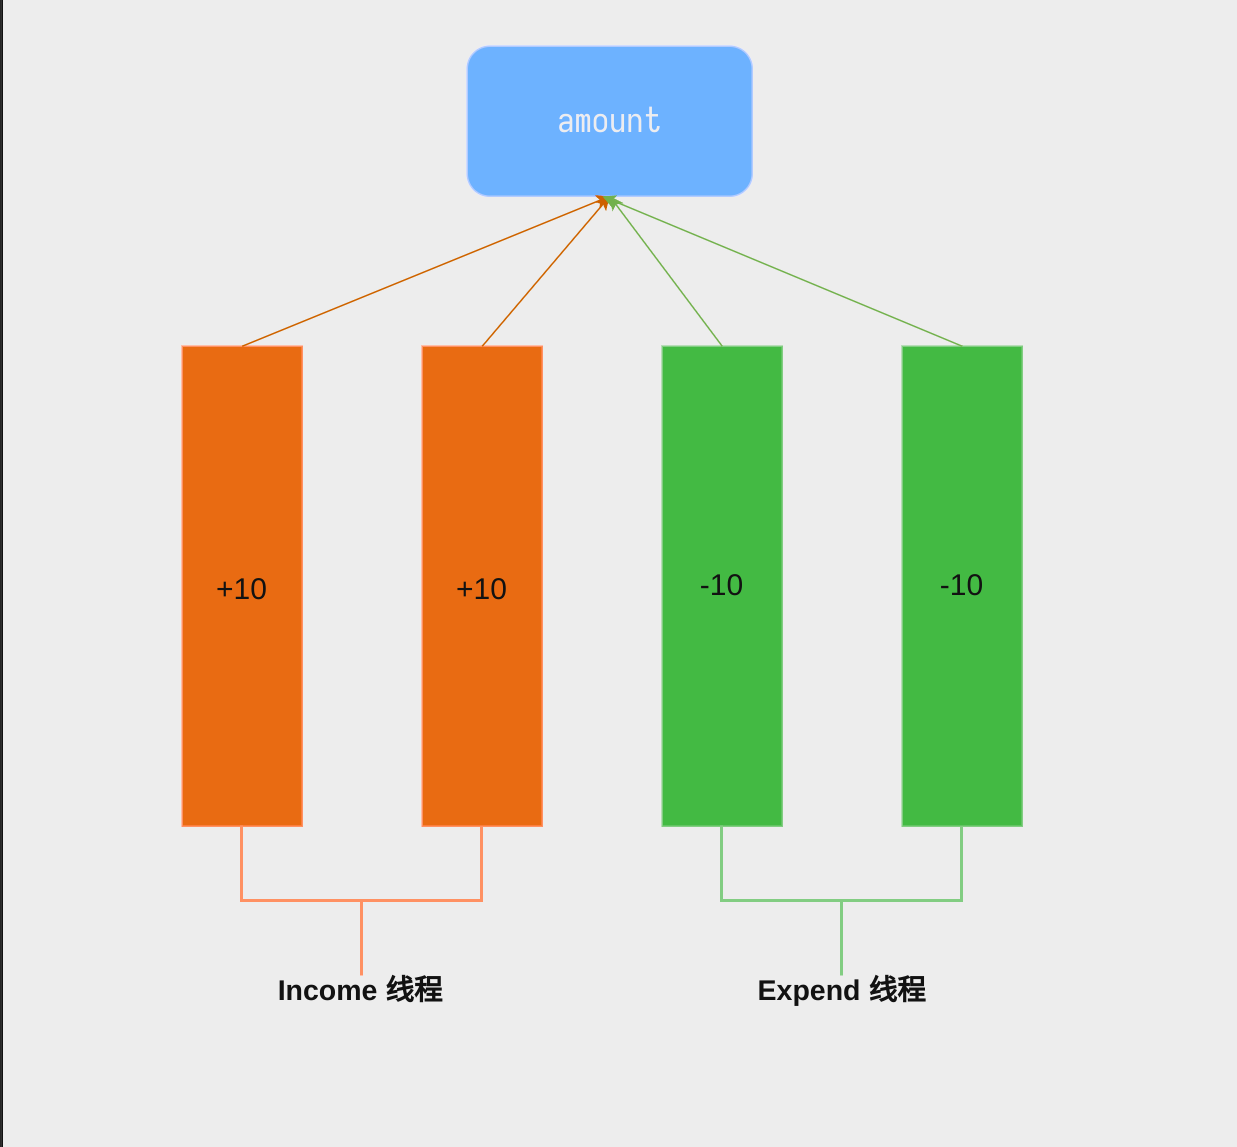
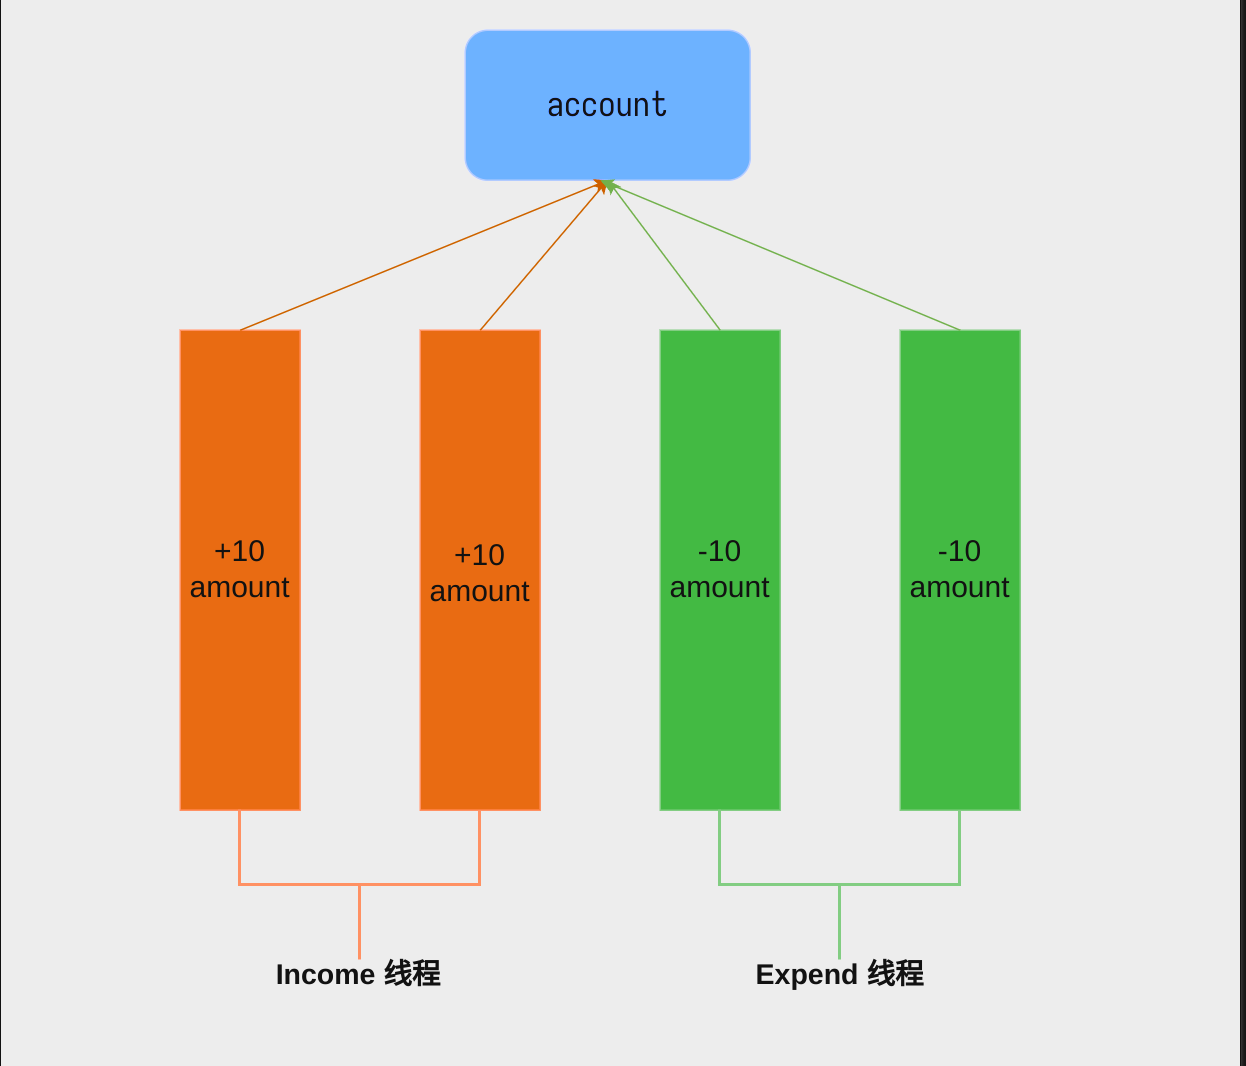
README

diff --git a/doc/lock_test/lock_test.md b/doc/lock_test/lock_test.md
@@ -1,0 +1,24 @@
+# lock_test
+
+在该任务中，你将处理一个简单的多线程并发同步任务
+
+## Background
+
+在银行账户的资金收入与支出过程中，经常会面临短时间内多笔资金的移动变化。在单线程情况下，面对大量的任务，性能往往无法满足需求。因此，引入多线程成为解决方案。然而，当计算机尚未完成一个请求处理时，又有另一个请求到来，如何保证数据的正确性就显得至关重要。
+
+![lock_test](./lock_test.png)
+
+## Description
+
+account 中的 `amount` 是你需要保证并发安全的数据([lock.h](../../src/include/lock.h)中定义)。
+
+你需要完成以下三个操作：
+- amountInit(lock_t* account) : 初始化 account 结构。
+- Income(lock_t* account, int amount) : 用于进行资金收入操作，金额为 amount。
+- Expend(lock_t* account, int amount) ： 用于进行资金支出操作，金额为 amount。
+
+## Declaration
+
+你的实现代码应该在 [lock.c](../../src/lock/lock.c)
+
+具体的测试请参考 README 中的 [Testing](../../README.md)
